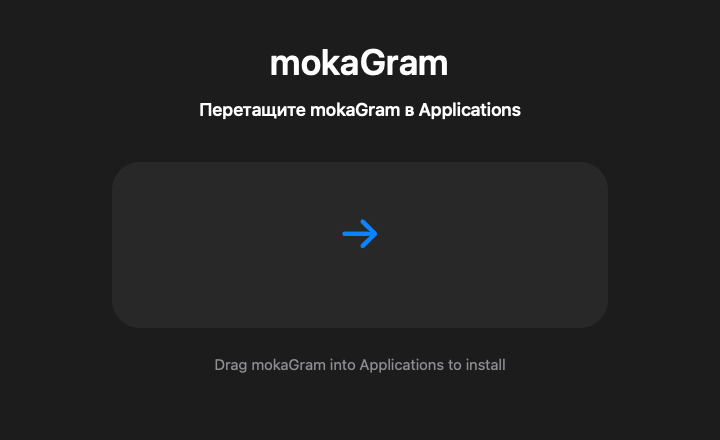
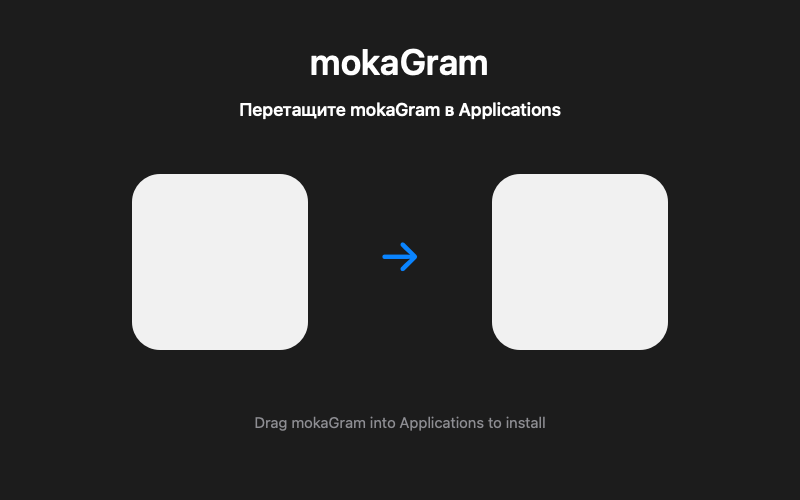
DMG: исправлен масштаб Retina и контраст подписей Finder

diff --git a/tools/mokagram/dmg/render-background.swift b/tools/mokagram/dmg/render-background.swift
@@ -2,8 +2,8 @@
 import AppKit
 
 let directory = URL(fileURLWithPath: #filePath).deletingLastPathComponent()
-let width = 720
-let height = 440
+let width = 800
+let height = 500
 func color(_ hex: UInt32) -> NSColor {
     NSColor(srgbRed: CGFloat((hex >> 16) & 255) / 255,
             green: CGFloat((hex >> 8) & 255) / 255,
@@ -17,8 +17,7 @@ for scale in [1, 2] {
     bitmap.size = NSSize(width: width, height: height)
     NSGraphicsContext.saveGraphicsState()
     NSGraphicsContext.current = NSGraphicsContext(bitmapImageRep: bitmap)
-    let context = NSGraphicsContext.current!.cgContext
-    context.scaleBy(x: CGFloat(scale), y: CGFloat(scale))
+    // bitmap.size already maps logical points to Retina pixels.
     color(0x1c1c1c).setFill()
     NSRect(x: 0, y: 0, width: width, height: height).fill()
     func text(_ value: String, top: CGFloat, size: CGFloat, weight: NSFont.Weight,
@@ -33,12 +32,14 @@ for scale in [1, 2] {
     text("mokaGram", top: 40, size: 36, weight: .semibold, ink: 0xffffff)
     text("Перетащите mokaGram в Applications", top: 99, size: 18,
          weight: .medium, ink: 0xffffff)
-    // Finder supplies the actual app and Applications icons at (200, 242) and (520, 242).
-    color(0x282828).setFill()
-    NSBezierPath(roundedRect: NSRect(x: 112, y: 112, width: 496, height: 166),
-                 xRadius: 28, yRadius: 28).fill()
-    text("→", top: 205, size: 48, weight: .regular, ink: 0x0a84ff)
-    text("Drag mokaGram into Applications to install", top: 355, size: 15,
+    // Finder supplies the actual icons and black filename labels on these light surfaces.
+    color(0xf1f1f1).setFill()
+    for x in [132, 492] {
+        NSBezierPath(roundedRect: NSRect(x: x, y: 150, width: 176, height: 176),
+                     xRadius: 28, yRadius: 28).fill()
+    }
+    text("→", top: 228, size: 48, weight: .regular, ink: 0x0a84ff)
+    text("Drag mokaGram into Applications to install", top: 413, size: 15,
          weight: .regular, ink: 0x8e8e93)
     NSGraphicsContext.restoreGraphicsState()
     let name = scale == 1 ? "background.png" : "background@2x.png"

diff --git a/tools/mokagram/package_dmg.py b/tools/mokagram/package_dmg.py
@@ -16,13 +16,13 @@ output = args.output.resolve()
 if output.exists():
     parser.error("output already exists; choose a new filename")
 output.parent.mkdir(parents=True, exist_ok=True)
-dmgbuild.build_dmg(str(output), "mokaGram", settings={
+dmgbuild.build_dmg(str(output), "mokaGram Installer", settings={
     "format": "UDZO",
     "files": [(str(app), "mokaGram.app")],
     "symlinks": {"Applications": "/Applications"},
     "background": str(Path(__file__).resolve().parent / "dmg/background.png"),
-    "window_rect": ((160, 160), (720, 440)),
-    "icon_locations": {"mokaGram.app": (200, 242), "Applications": (520, 242)},
+    "window_rect": ((160, 160), (800, 500)),
+    "icon_locations": {"mokaGram.app": (220, 265), "Applications": (580, 265)},
     "icon_size": 96,
     "text_size": 14,
     "hide_extension": ["mokaGram.app"],
